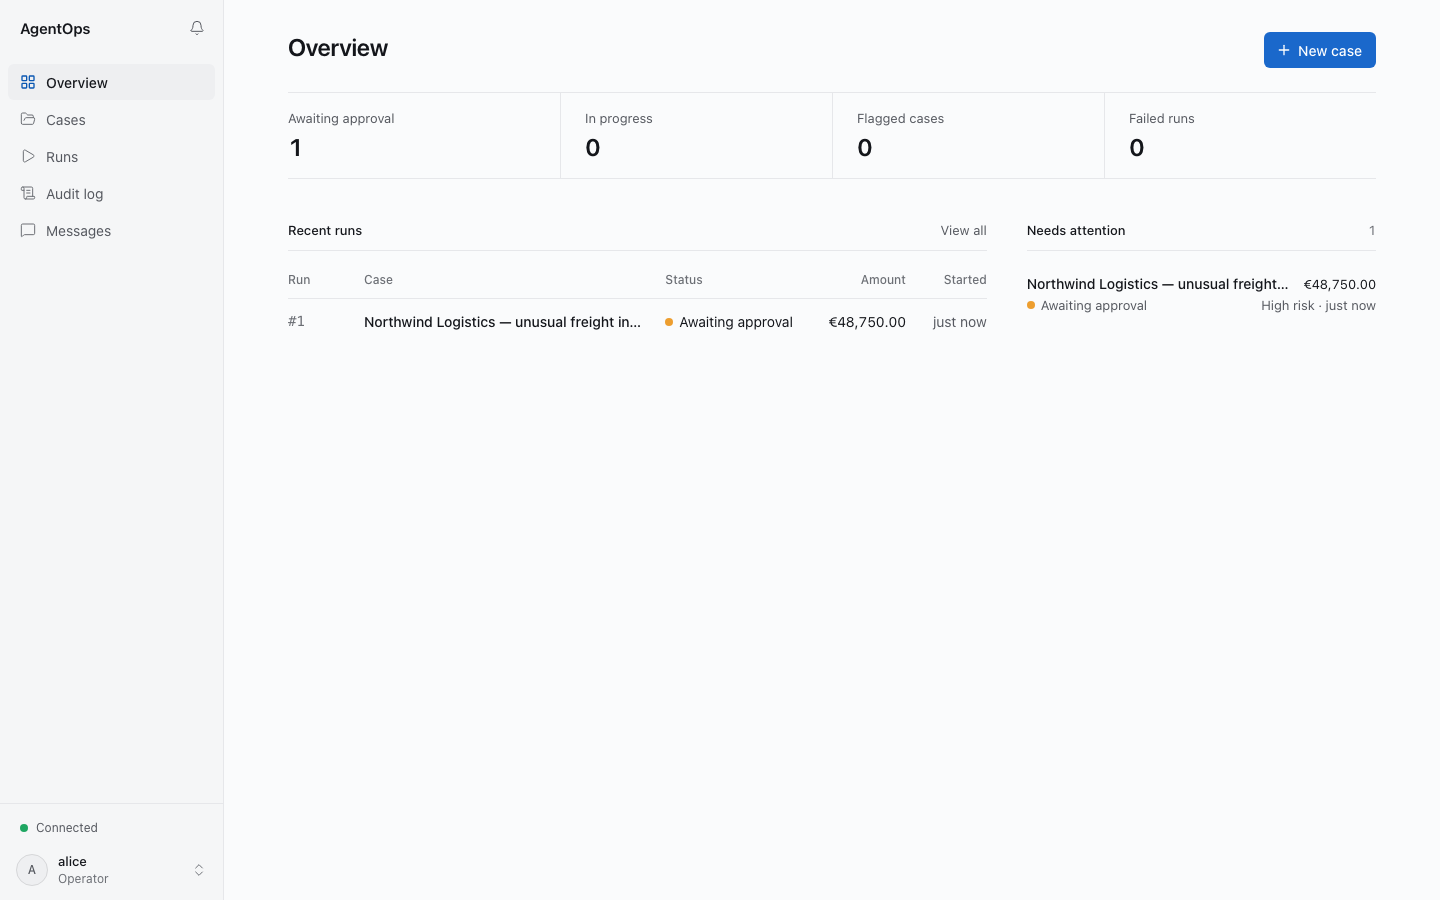
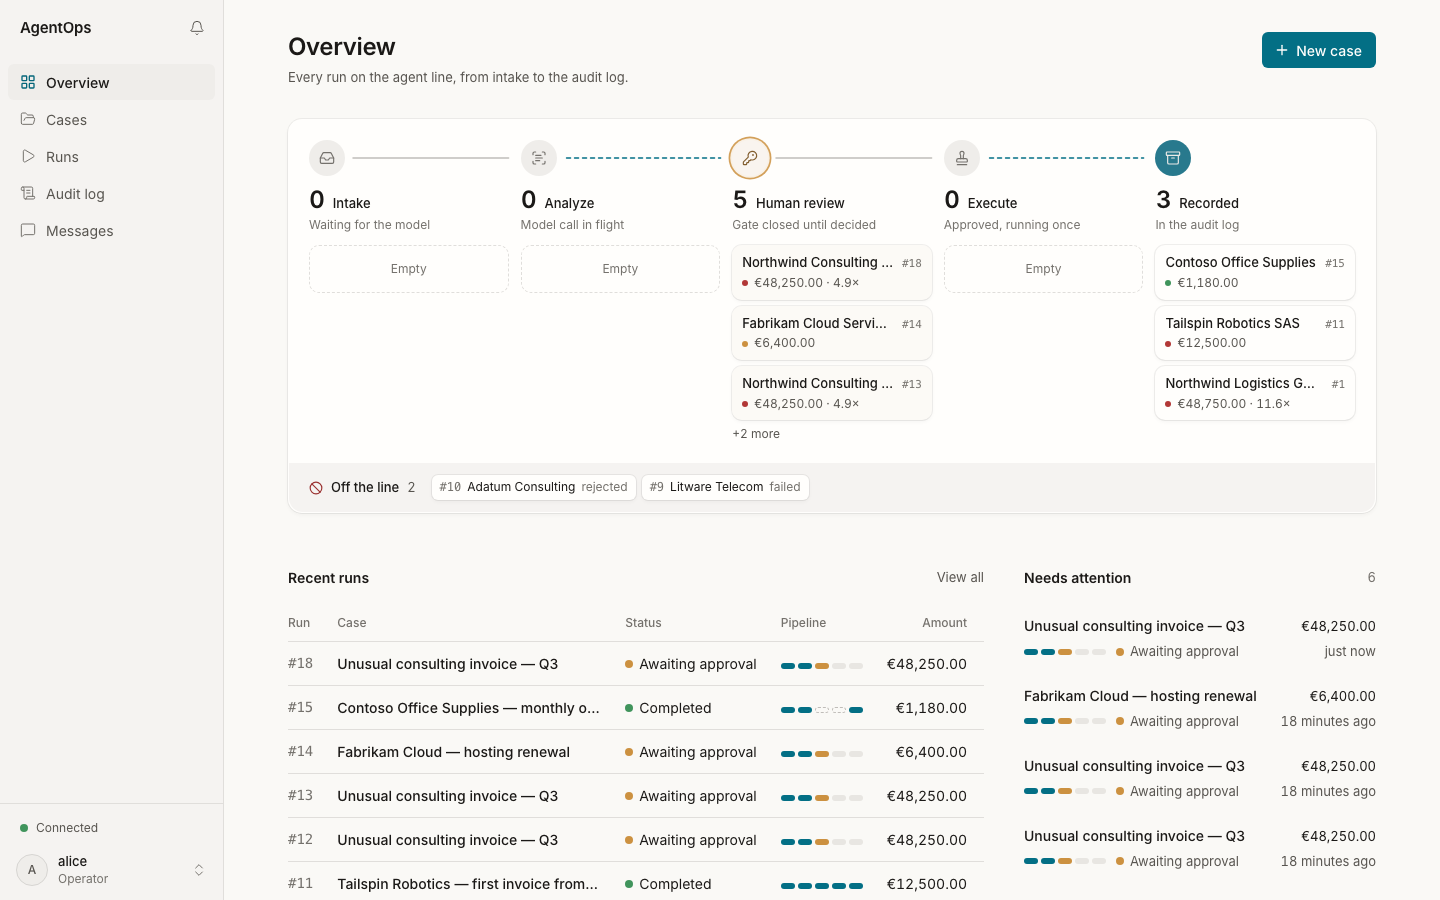
docs: palette, layout and pipeline visuals; refreshed screenshots

diff --git a/tests/e2e/screenshots/capture.spec.ts b/tests/e2e/screenshots/capture.spec.ts
@@ -67,6 +67,12 @@ test('capture report screenshots (alice desktop operator, bob mobile reviewer)',
   await desk.goto('/operator');
   await desk.waitForTimeout(800);
   await desk.screenshot({ path: `${OUT}/desktop-dashboard.png` });
+  await desk.getByTestId('new-case-button').click();
+  await desk.getByTestId('scenario-spike').click();
+  await expect(desk.getByTestId('case-preview')).toHaveAttribute('data-risk', 'high');
+  await desk.waitForTimeout(300);
+  await desk.screenshot({ path: `${OUT}/desktop-new-case.png` });
+  await desk.keyboard.press('Escape');
   await desk.goto('/api/docs/');
   await desk.waitForTimeout(1500);
   await desk.screenshot({ path: `${OUT}/swagger-ui.png` });

diff --git a/apps/web/DESIGN.md b/apps/web/DESIGN.md
@@ -1,8 +1,8 @@
 # Design guidelines — AgentOps Control Center
 
 Distilled from Emil Kowalski's design-engineering skill (emilkowal.ski/skill) and Jakub Krehel's
-interface skills (jakub.kr/skills: better-ui, better-typography, better-colors, better-accessibility,
-make-interfaces-feel-better). These rules are binding for `apps/web`.
+interface skills (jakub.kr/skills: better-ui, better-layout, better-typography, better-colors,
+better-accessibility, make-interfaces-feel-better). These rules are binding for `apps/web`.
 
 The product is a professional operations tool used many times a day. It should feel **quiet, dense,
 precise and fast** — closer to Linear / Vercel dashboard than to a landing page. Remove anything that
@@ -15,9 +15,10 @@ exists only to look "designed".
 - No "Welcome back, X" headers, motivational subtitles or filler copy ("LLM errors are never auto-approved").
 - No gradient / filled logo tiles; a simple wordmark.
 - Badges: text + a small status dot, no icon inside every badge, no pastel fill + border + icon combos.
-- No charts that show mostly empty data. A chart must earn its place.
-- Cards: not every section needs a card. Prefer flat sections separated by hairline dividers and
-  whitespace; cards only for grouped, elevated content.
+- No charts that show mostly empty data. A chart must earn its place: every visual on a page answers
+  a question the user has there (where is this run? how far off is this amount? what waits on me?).
+- Cards: not every section needs a card. Group with space first; cards only for grouped, elevated
+  content (the pipeline figure, the proposal, an invoice sheet, inbox items).
 - Never show raw identifiers as UI copy (`flag_invoice_for_review`, `llm_response_valid`). Map to
   human labels ("Flag invoice for review", "Model response validated"). Raw ids may appear in a
   secondary monospace detail.
@@ -26,18 +27,28 @@ exists only to look "designed".
 
 ## 2. Color (better-colors)
 
-- One neutral ramp + one accent ramp + only the status ramps actually rendered. Define in `oklch()`
-  as primitives, expose **semantic tokens** (`--color-bg`, `--color-bg-subtle`, `--color-surface`,
-  `--color-border`, `--color-text`, `--color-text-secondary`, `--color-text-tertiary`,
-  `--color-accent-solid`, `--color-accent-text`, `--color-success`, `--color-warning`,
-  `--color-danger`) — components reference semantic tokens only.
-- Accent is used sparingly: exactly one filled primary action per view, focus rings, active nav,
-  own message bubbles. Everything else neutral.
-- Status colors within 15° hue of the accent are not allowed. Status is never carried by color alone
-  (dot + text label).
-- No `text-white` on a 500-level fill (fails 4.5:1) — use 600+.
-- Dark mode: lower accent chroma, re-measure contrast; use one mechanism (`.dark` class).
-- Text contrast ≥ 4.5:1, UI boundaries ≥ 3:1.
+Generated in OKLCH (culori) as Radix-style 12-step ramps where each step has a job: 1–2 backgrounds,
+3–5 interactive fills, 6–8 borders, 9–10 solid fills, 11–12 text. Constant hue per ramp, chroma
+peaking mid-ramp and easing off at both ends so the light steps don't go chalky and the dark ones
+don't go muddy.
+
+| Ramp | Hue | Notes |
+| --- | --- | --- |
+| neutral | 80 (warm stone) | chroma ≤ 0.008, reads as paper rather than blue-grey |
+| accent | 218 (petrol) | one accent; ≥ 40° from every status hue |
+| success / warning / danger | 152 / 72 / 25 | only the steps that are rendered |
+
+- Two tiers: primitives (`--neutral-1…12`, `--accent-*`, `--green-*`, `--amber-*`, `--red-*`) and
+  **semantic tokens** that components use exclusively: `--color-bg`, `-bg-subtle`, `-bg-muted`,
+  `-bg-surface`, `-text`, `-text-secondary`, `-text-tertiary`, `-border`, `-border-control`,
+  `-accent-solid`, `-accent-text`, `-success-*`, `-warning-*`, `-danger-*`. Tailwind's default palette
+  is reset, so a stray `bg-blue-500` doesn't compile.
+- Measured contrast (light / dark): text 16.6 / 16.9, secondary 7.1 / 9.0, tertiary 4.6 / 5.3,
+  text on accent 5.8 / 5.7, control borders 3.4 / 3.0.
+- Accent is used sparingly: one filled primary action per view, focus rings, active nav, the live
+  stage of a pipeline, own message bubbles. Everything else neutral.
+- Status is never carried by color alone (dot + word, icon + word on pipeline stages).
+- Dark mode is its own set of values under `.dark`, not an inversion; accent text moves to step 11.
 
 ## 3. Typography (better-typography)
 
@@ -54,14 +65,28 @@ exists only to look "designed".
 
 ## 4. Surfaces (better-ui)
 
-- Concentric radius: outer radius = inner radius + padding. Small set: 6px (controls), 10px (cards), 9999 (pills/avatars).
-- Shadows for elevation, borders for structure. Elevated surfaces (popover, dialog, dropdown, floating composer):
-  light `0 0 0 1px oklch(0 0 0 / .06), 0 1px 2px -1px oklch(0 0 0 / .06), 0 2px 4px oklch(0 0 0 / .04)`;
-  dark `0 0 0 1px oklch(1 0 0 / .08)`. Keep `border: 1px solid transparent` under shadow rings (forced colors).
-  Tables, dividers, inputs keep real borders.
+- Concentric radius: outer radius = inner radius + padding. Small set: 6px (controls), 8–12px (cards), 9999 (pills/avatars).
+- Elevated surfaces use a shadow ring (`--shadow-border`, `.surface`) over a transparent 1px border (kept for
+  forced-colors mode). Hover deepens the ring (`--shadow-border-hover`) instead of changing the fill.
+  Tables, dividers and inputs keep real borders.
 - Avatars/images: `outline: 1px solid oklch(0 0 0 / .1); outline-offset: -1px` (dark: white/10).
 - Icons: lucide only, `currentColor`, stroke 1.5 next to 400-weight text, 2 next to 600. 16px in UI, 14px in dense rows.
 - Optical alignment: buttons with a leading icon get ~2px less padding on the icon side.
+- Build the missing primitive instead of falling back to the browser's: `Select` (Radix) replaces
+  `<select>`, `DatePicker` (react-day-picker in a popover) replaces `<input type="date">`.
+
+## 4b. Layout (better-layout)
+
+- Group with space, not lines: gaps between groups are at least twice the gaps inside them. Section
+  headings carry no rules; lists of cards use `space-y-*`, not `divide-y`.
+- Logical properties only (`ms/me/ps/pe`, `start/end`, `text-start`, `border-s`), so the layout
+  mirrors in RTL. Centring with `left-1/2 -translate-x-1/2` is the one exception.
+- Components that live in different widths size themselves with container queries (`@container`,
+  `@md:`, `@3xl:`), not viewport breakpoints: the pipeline track and board work in a 22rem aside and a
+  full page alike.
+- Grid tracks are `minmax(0,1fr)` so long content truncates instead of blowing out the column. Full
+  height uses `100dvh`; anchored scrolling leaves room for the header with `scroll-padding`.
+- Tables shed columns by priority as width drops; no horizontal page scroll at 320px.
 
 ## 5. Motion (Emil + better-ui)
 
@@ -103,4 +128,27 @@ exists only to look "designed".
 - **motion-primitives** (`https://motion-primitives.com/c/<name>.json`) only where it adds meaning:
   `animated-background` (segmented filter / nav active indicator), `sliding-number` or `animated-number`
   (KPI counters changing live), `transition-panel` (inbox ↔ detail on mobile).
+  Agent surfaces also use `tool` (each agent step as a call with input, output and state),
+  `chain-of-thought` (read → compare → recommend), `system-message` (gate and outcome banners) and
+  `thinking-bar` (live analysis).
 - Restyle imported components to these tokens; do not keep their demo styling.
+
+## 8. Pipeline visuals
+
+The agent's work is shown as one pipeline everywhere: intake → analyze → **human review** (the gate)
+→ execute → recorded. `features/agents/pipeline.ts` derives every stage's state from the run DTO; all
+visuals read from it, so they cannot disagree.
+
+- **Agent line** (`pipeline-machine.tsx`): an isometric bench drawn with the Anatomy kit
+  (wheresryan22/anatomy, MIT, vendored in `components/iso`). The invoice sheet rides a carriage under
+  the model gantry, waits at a boom gate with a key switch, is stamped by the press once approved, or
+  drops into the reject bin. One lit accent; everything else in three neutral tones; painter's order
+  back to front. Holds still under `prefers-reduced-motion`.
+- **Track** (`pipeline-track.tsx`): the same five stages as icon + word, connector flowing into the live
+  stage; `compact` renders five segments for tables, cards and lists.
+- **Board** (`pipeline-board.tsx`): the overview places every run in its stage lane, with runs that
+  left the line (failed, rejected) on an off-ramp underneath.
+- **Evidence**: risk gauge, deviation bar against the vendor's typical amount and the 3× limit, a
+  table-sized `DeviationMini`, and an invoice sheet. The new-case dialog previews the likely verdict
+  from the same thresholds as the mock agent.
+

diff --git a/README.md b/README.md
@@ -10,7 +10,7 @@ Human-in-the-Loop approval platform for an AI agent running on a local LLM.
   executed exactly once and every step is audited.
 
 Stack: Rust (Axum, Tokio, SQLx, Utoipa, Argon2id, jsonwebtoken) · PostgreSQL 17 · React + Vite + TypeScript
-(TanStack Router/Query, Zustand, Tailwind, shadcn/ui, prompt-kit, motion-primitives) · LM Studio · Docker Compose · Caddy · GitHub Actions.
+(TanStack Router/Query, Zustand, Tailwind, shadcn/ui, prompt-kit, motion-primitives, Anatomy isometric kit) · LM Studio · Docker Compose · Caddy · GitHub Actions.
 
 ![Architecture](docs/architecture.svg)
 

diff --git a/docs/development.md b/docs/development.md
@@ -233,7 +233,8 @@ cd tests/e2e && pnpm exec playwright test --config screenshots.config.ts
 ```
 
 This writes `desktop-messaging.png`, `mobile-messaging.png`, `desktop-run-awaiting-approval.png`,
-`mobile-approval-inbox.png`, `mobile-approval-detail.png`, `desktop-dashboard.png` and `swagger-ui.png` into
+`mobile-approval-inbox.png`, `mobile-approval-detail.png`, `desktop-dashboard.png`, `desktop-new-case.png` and
+`swagger-ui.png` into
 `docs/screenshots/` (all referenced by `docs/report.md`).
 
 Still to take by hand during the physical demo:
